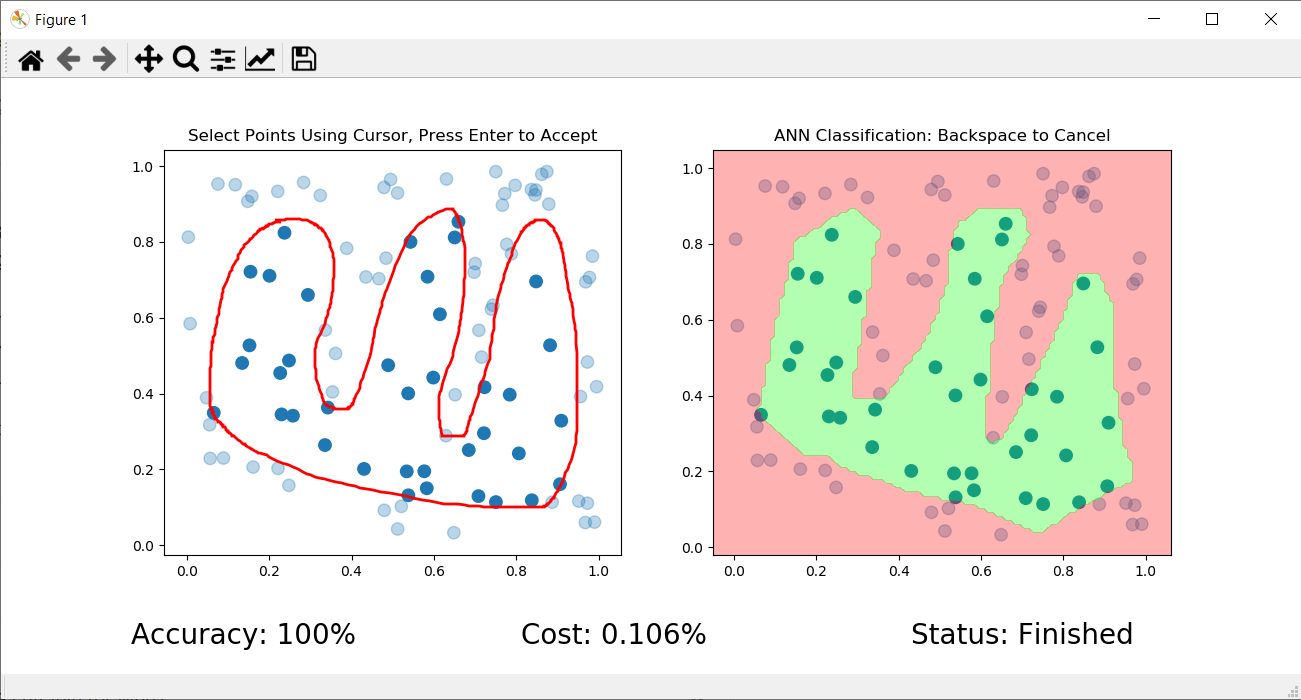
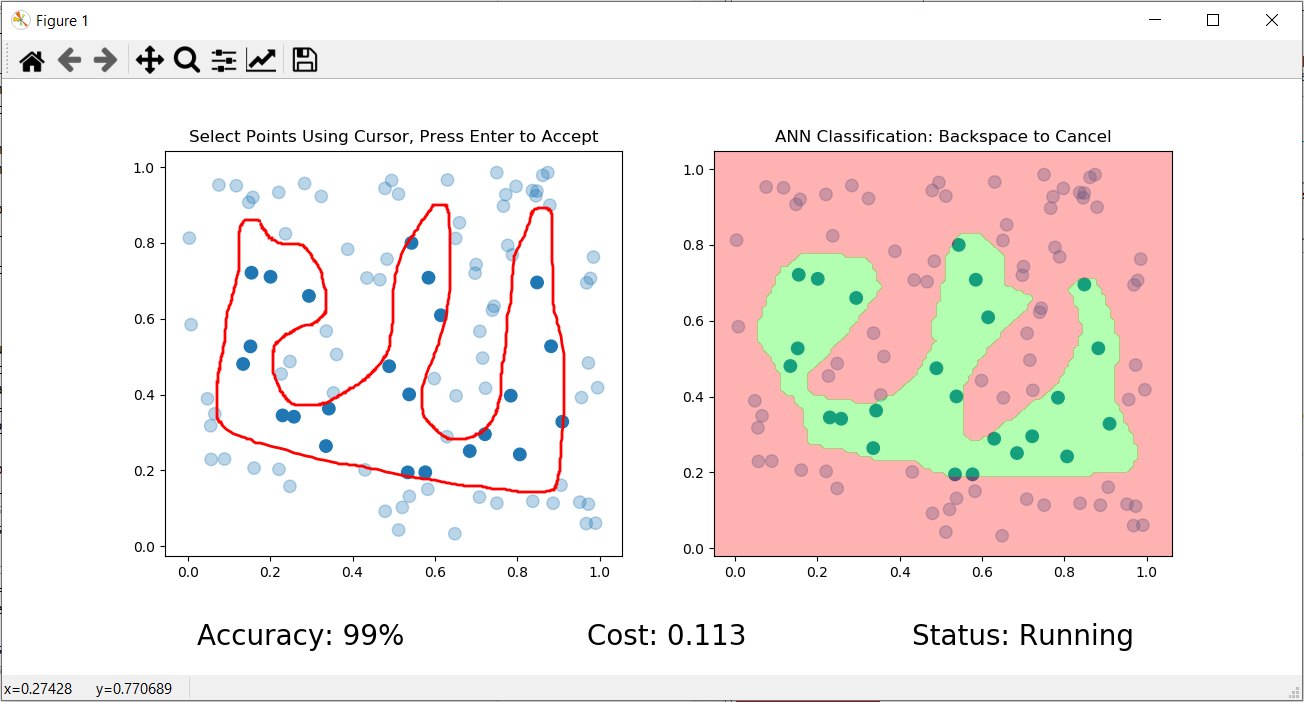
'Fixing minor errors'

diff --git a/Classification_Visualizer.py b/Classification_Visualizer.py
@@ -129,8 +129,8 @@ if __name__ == '__main__':
     ax1.set_title("Select Points Using Cursor, Press Enter to Accept")
     ax2.set_title("ANN Classification: Backspace to Cancel")
     fig.subplots_adjust(bottom = .2)
-    text1 = fig.text(0.10,0.05, 'Accuracy:', fontsize=20)
-    text2 = fig.text(0.40,0.05, 'Cost:', fontsize=20)
+    text1 = fig.text(0.15,0.05, 'Accuracy:', fontsize=20)
+    text2 = fig.text(0.45,0.05, 'Cost:', fontsize=20)
     text3 = fig.text(0.70,0.05, 'Status:', fontsize=20)
     
     # Setting some global variables to help with conditions for certain actions
@@ -189,8 +189,8 @@ if __name__ == '__main__':
                 text1.remove()
                 text2.remove()
                 text3.remove()
-                text1 = fig.text(0.10,0.05, 'Accuracy: {}%'.format(accuracy), fontsize=20)
-                text2 = fig.text(0.40,0.05, 'Cost: %.3f'%cost+'%', fontsize=20)
+                text1 = fig.text(0.15,0.05, 'Accuracy: {}%'.format(accuracy), fontsize=20)
+                text2 = fig.text(0.45,0.05, 'Cost: %.3f'%cost, fontsize=20)
                 if accuracy == 100:
                     text3 = fig.text(0.70,0.05, 'Status: Finished', fontsize=20)
                 else: 
